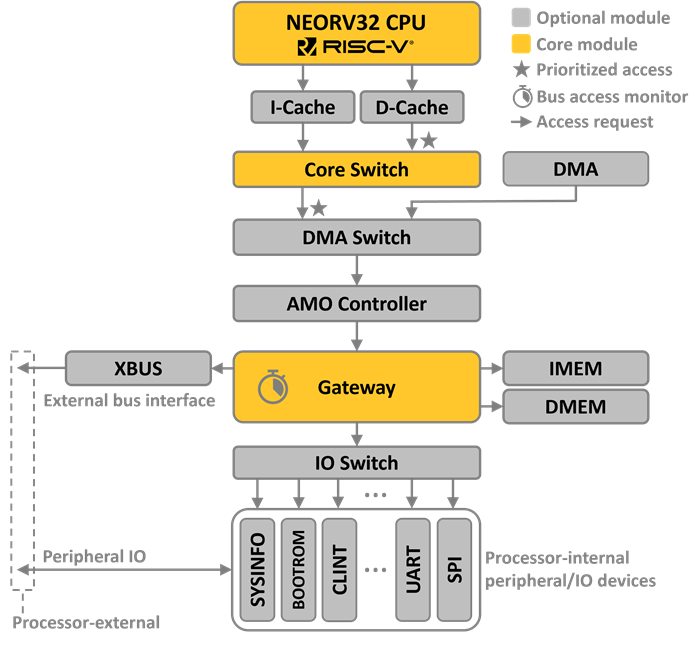
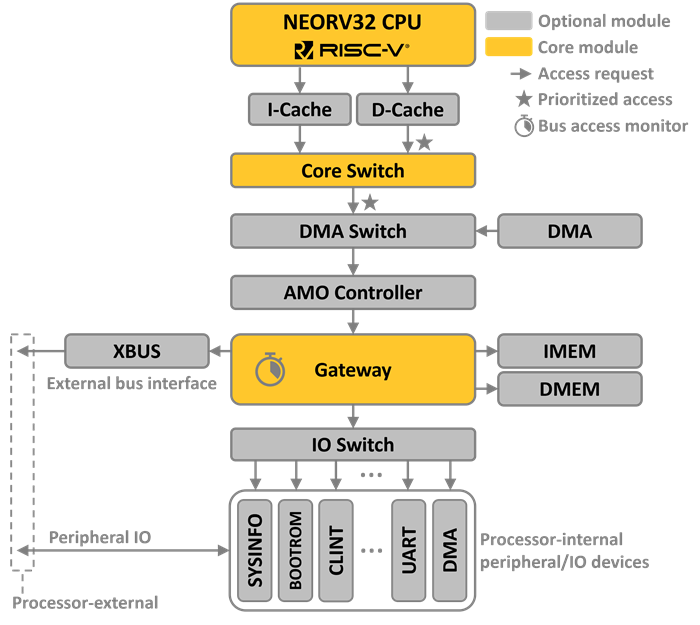
[docs] minor edits

Changed region(s): [[0.0, 0.0, 0.99, 1.0], [0.0, 0.6384, 0.06, 0.7296], [0.0, 0.608, 0.03, 0.6384]]

diff --git a/README.md b/README.md
@@ -14,11 +14,6 @@ controller in larger SoC designs or as tiny and customized microcontroller that 
 Lattice iCE40 UltraPlus low-power & low-density FPGA. The project is intended to work _out of the box_ and targets
 FPGA / RISC-V beginners as well as advanced users.
 
-Special focus is paid on **execution safety** to provide defined and predictable behavior at any time.
-For example, the CPU ensures _all_ memory accesses are properly acknowledged and _all_ invalid/malformed
-instructions are always detected as such. Whenever an unexpected state occurs the application software is
-informed via _precise_ and resumable hardware exceptions.
-
 ![neorv32 Overview](docs/figures/neorv32_processor.png)
 
 ### Key Features
